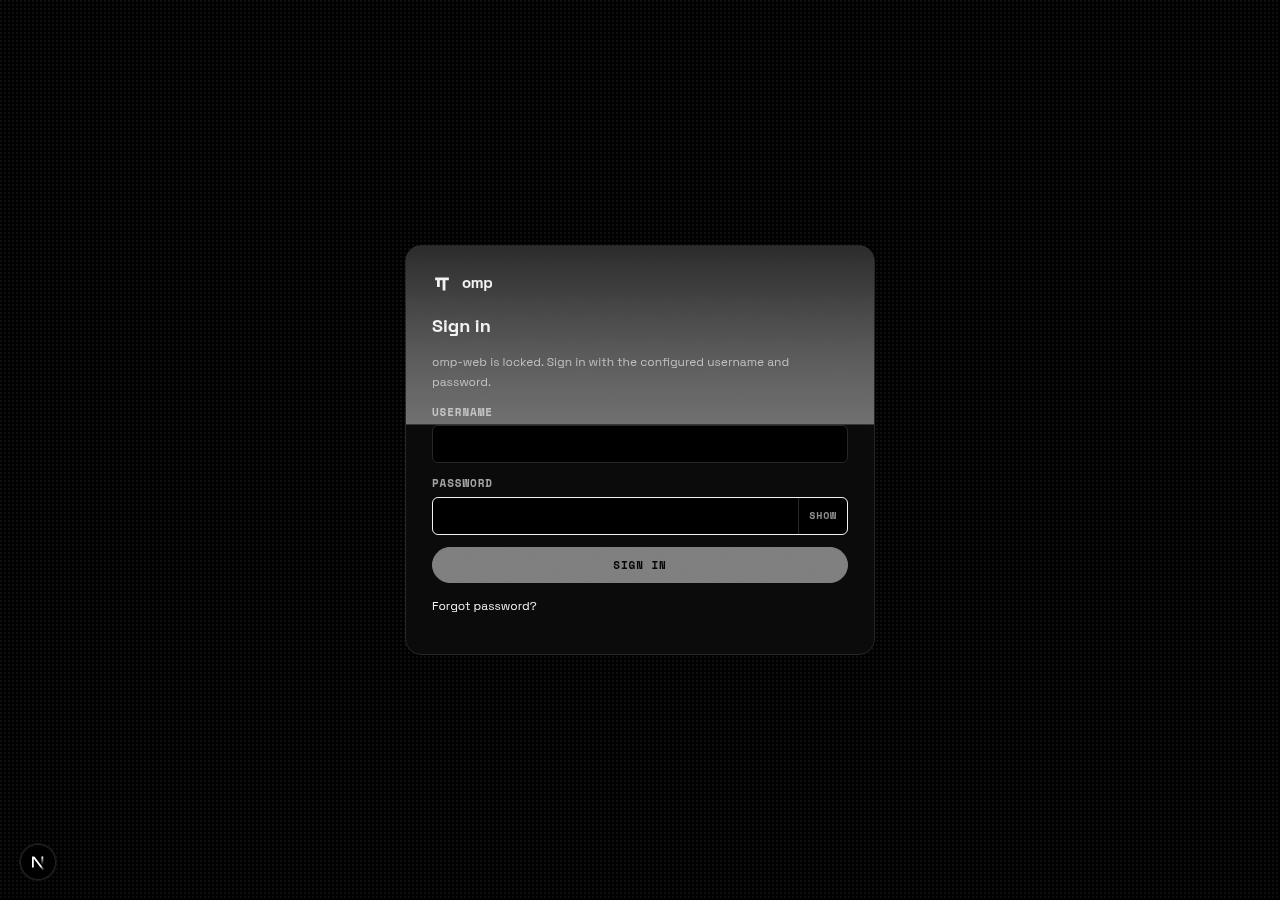
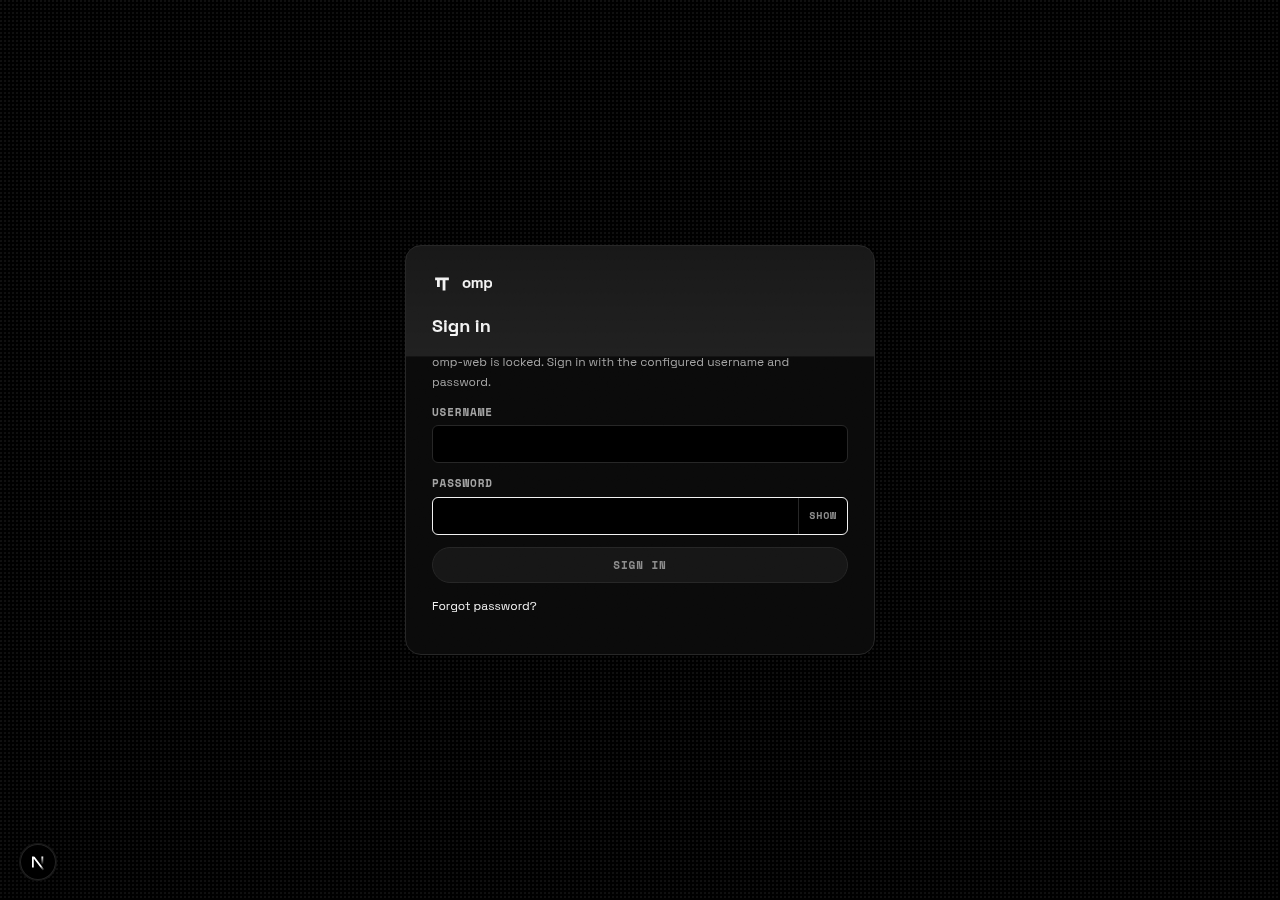
fix(login): keep the scanline off the form and mute the disabled button
- The travel keyframes ran at opacity 1, so the band's 44% --text edge crossed the form as a grey plate (measured rgb(111,111,111) on the #0b card, rgb(214) on #fff). The travel now rides at the resting 0.22: peak rgb(33) dark / rgb(232) light.
- A disabled primary was a 50% accent (rgb(128,128,128) in both themes); it is now --bg-hover with --border and --text-dim text, a palette surface instead of a washed-out accent.
- login-motion.test.mjs pins both: no keyframe opacity above 0.22 and no opacity on .primary:disabled.
- Screenshots regenerated (login dark/light desktop+mobile, app desktop).

Changed region(s): [[0.3125, 0.28, 0.6875, 0.4978], [0.3125, 0.5911, 0.6875, 0.6533]]

diff --git a/app/login/login.module.css b/app/login/login.module.css
@@ -256,6 +256,16 @@
    * gedaempfter Deckkraft, nicht das Nichts und nicht die volle Deckkraft:
    * bei opacity 1 lag es als graue Platte ueber dem Formular.
    *
+   * Und die FAHRT faehrt mit derselben gedaempften Deckkraft wie die Ruhe.
+   * Bis 2026-11-23 stand sie bei 8 %..70 % auf opacity 1; ueber dem
+   * Nothing-Panel (--bg-panel #0a0a0a, --text #f2f2f2) las sich das als
+   * graue Platte ueber dem halben Formular. Gemessen am Screenshot
+   * login-dark-desktop.png (mitten in der Fahrt): Bandspitze
+   * rgb(111,111,111) an der Unterkante des Bandes, Karte sonst #0b; hell
+   * dito rgb(214) auf #fff. Mit 0.22 bleibt die Spitze bei rgb(32) dunkel
+   * und rgb(232) hell — ein Band, keine Flaeche. `login-motion.test.mjs`
+   * haelt die Grenze fest.
+   *
    * Die Deckkraftstufen gegeneinander gemessen, Pixel der ruhenden Karte an
    * der hellsten Stelle des Bandes (y = 98 %) gegen dieselbe Stelle ohne
    * Band, Karte 410.06 px, Chromium 1237, Dev-Server auf Port 30161:
@@ -279,8 +289,7 @@
    * letzten Fahrt der Zustand der Karte ist, aber er traegt die Ruhe nicht
    * allein: 0.8 s sind kurz genug, dass das Fehlen nicht auffaellt. */
   0%     { transform: translateY(-100%); opacity: 0; }
-  8%     { opacity: 1; }
-  70%    { opacity: 1; }
+  8%     { opacity: 0.22; }
   75%    { transform: translateY(0); opacity: 0.22; }
   100%   { transform: translateY(0); opacity: 0.22; }
 }
@@ -433,7 +442,17 @@
   text-decoration: none;
 }
 
-.primary:disabled { cursor: not-allowed; opacity: .5; }
+/* Ein deaktivierter Accent-Knopf ist kein halbtransparenter Accent, sondern
+ * eine gedaempfte Flaeche. `opacity: .5` ueber #0a0a0a bzw. #fff ergab
+ * rgb(128,128,128) — genau das Grau, das auf dem Login-Screenshot als Fehler
+ * gelesen wurde. Die Palette-Mitglieder sind --bg-hover (Flaeche), --border
+ * (Rahmen) und --text-dim (Schrift). */
+.primary:disabled {
+  cursor: not-allowed;
+  border-color: var(--border);
+  background: var(--bg-hover);
+  color: var(--text-dim);
+}
 
 /* A rejected attempt replays the same press the 401 fallback page uses, but
    tinted with the theme's danger colour and with a short recoil at the end so
